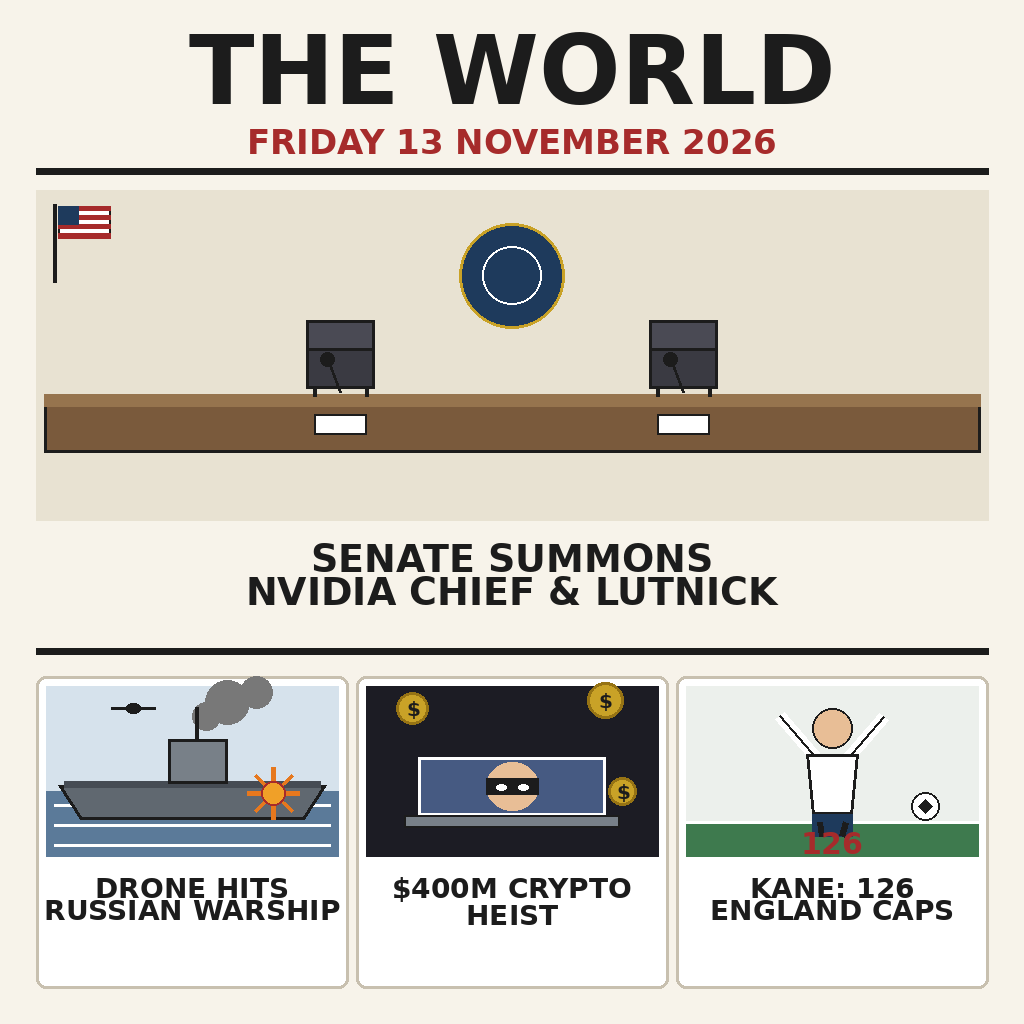
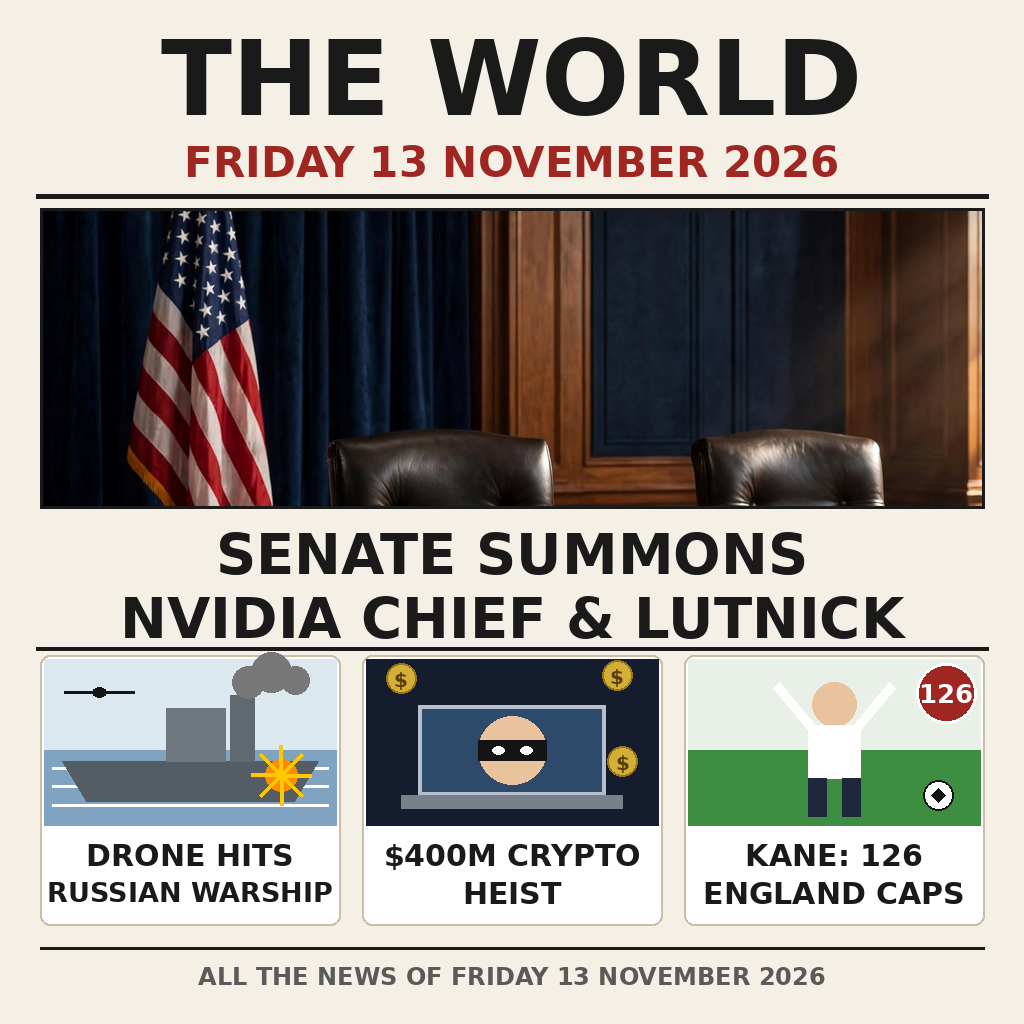
news-image-01 v2: photo-lead front page (pairwise winner over v1, 2-1)

diff --git a/main.ts b/main.ts
@@ -1,9 +1,13 @@
-// news-image-01 entry (Node 22, standard library only): copies the image
+// news-image-01 entry v2 (Node 22, standard library only): copies the image
 // beside this file to the output directory. The image sums up the world's
-// news of Friday 13 November 2026: Senate summons Nvidia's chief, Zelensky
-// meets US envoys, a drone hits a Russian warship, Iran strikes a US radar
-// base in Bahrain, the FBI's $400m crypto heist, and Kane's 126th England
-// cap, in a front-page montage with a globe at its centre.
+// news of Friday 13 November 2026 in a front page of THE WORLD: the lead is
+// a Senate hearing room with two empty witness chairs (Senate summons
+// Nvidia's chief Huang and Commerce Secretary Lutnick), below it the drone
+// hitting a Russian warship, the FBI's $400m crypto heist, and Kane's 126th
+// England cap. v2 replaces v1's flat lead pictogram with a rich editorial
+// photograph-style hearing room: pairwise judging (CrowLLM vision, 10
+// decided calls) picked it over v1 2-1 and over both other v2 concepts.
+// (v1 ranked #2,410 of 2,874; this is the iterate-rule rebuild.)
 //
 // Outside the grader's container, MAKEFUN_OUTPUT_DIR stands in for /output:
 //   mkdir -p out && MAKEFUN_OUTPUT_DIR=out node main.ts
@@ -42,4 +46,10 @@ const outDir = process.env.MAKEFUN_OUTPUT_DIR ?? '/output';
 mkdirSync(outDir, { recursive: true });
 const dest = join(outDir, 'entry.png');
 copyFileSync(source, dest);
+// Verify the copy: the grader runs the program twice and compares bytes,
+// so a silent short write would be worse than a loud failure.
+const written = readFileSync(dest);
+if (!written.equals(bytes)) {
+  throw new Error('entry.png copy mismatch: output bytes differ from source');
+}
 console.log(`wrote ${dest} (${statSync(dest).size} bytes, ${width}x${height})`);

diff --git a/README.md b/README.md
@@ -1,14 +1,18 @@
 # news-image-01 — The world's news of Friday 13 November 2026, in one image
 
-A front-page montage: the date across the top, a globe at the centre, and six
-labelled vignettes around it covering the day's most consequential stories —
-the US Senate summoning Nvidia's chief, Zelensky meeting US envoys, a Ukrainian
-drone hitting a Russian warship, Iran striking a US radar base in Bahrain, the
-FBI's $400m crypto heist, and Harry Kane's record 126th England cap.
+A newspaper front page of THE WORLD: the lead is a Senate hearing room with
+two empty witness chairs (the US Senate summoning Nvidia's chief Huang and
+Commerce Secretary Lutnick), below it the day's other big stories — a
+Ukrainian drone hitting a Russian warship, the FBI's $400m crypto heist, and
+Harry Kane's record 126th England cap.
 
-The image is drawn procedurally (deterministic vector-style illustration with
-short bold labels, spelled exactly) and the program simply copies it to the
-output directory.
+v2 (this entry): the lead illustration is a rich editorial photograph-style
+hearing room instead of v1's flat pictogram. Pairwise vision judging (CrowLLM,
+10 decided calls) picked this version over v1 2-1 and over both other v2
+concepts (a "Dear Judge" note variant and a judge-reading-the-paper scene).
+The panels are drawn procedurally (deterministic vector-style illustration
+with short bold labels, spelled exactly) and the program simply copies the
+finished image to the output directory.
 
 ## Run
 
